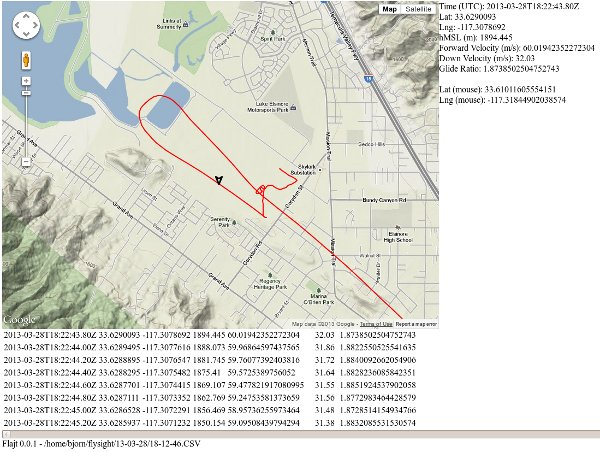
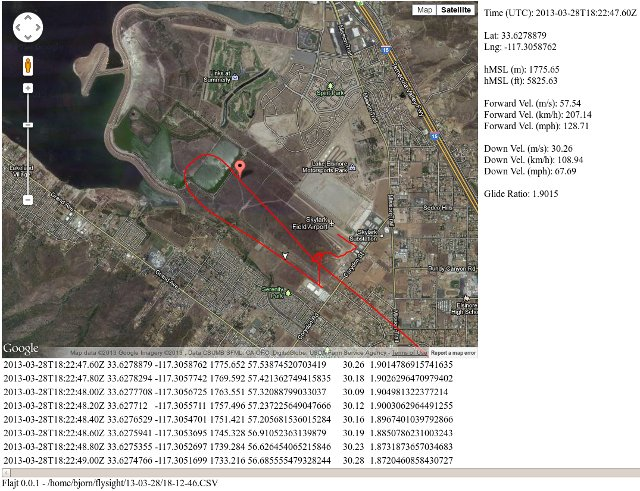
Update marker and screenshot.

diff --git a/web/view.html b/web/view.html
@@ -100,7 +100,11 @@ function render(data) {
     map: map,
     icon: {
       path: google.maps.SymbolPath.BACKWARD_CLOSED_ARROW,
-      scale: 3
+      scale: 3,
+      strokeColor: '#000000',
+      strokeWeight: 1,
+      fillOpacity: 1,
+      fillColor: '#FFFFFF'
     }
   });
 
